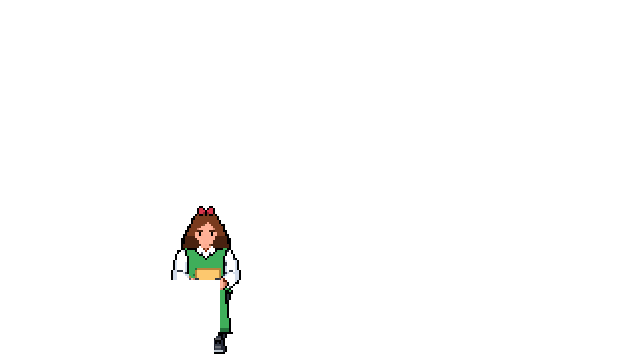
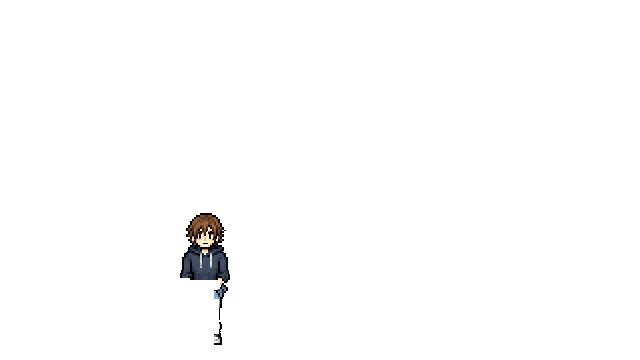
ajout de luna et hugo

Changed region(s): [[0.25, 0.55, 0.375, 0.9778]]

diff --git a/index.html b/index.html
@@ -112,9 +112,9 @@
         <img class="wagon__calque" src="assets/images/wagon-03/interieur.png" alt="Vieux wagon de bois envahi par le lierre et la mousse : lanternes de papier, banquettes de velours bordeaux, pots de fleurs aux fenêtres, chat roux endormi">
         <img class="wagon__calque wagon__lueur" src="assets/images/wagon-03/lueurs.png" alt="">
         <!-- Voyageurs provisoires (variantes de Joaquim), pensées provisoires. -->
-        <img class="wagon__calque wagon__personnage" src="assets/images/wagon-03/personnage-01.png" alt="Petite fille aux longs cheveux bruns, ruban rouge et robe verte, assise sur la banquette (personnage provisoire)" data-nom="Alice" data-pensee="Mon walkman n'a plus de piles et il reste quatre heures de trajet.">
+        <img class="wagon__calque wagon__personnage" src="assets/images/wagon-03/personnage-01.png" alt="Hugo" data-nom="Hugo" data-pensee="Skibidi Fortnite :P">
         <img class="wagon__calque wagon__personnage" src="assets/images/wagon-03/personnage-02.png" alt="Promeneur barbu en gilet vert, une feuille posée sur la tête (personnage provisoire)" data-nom="Léon" data-pensee="On est à Vierzon. Depuis vingt minutes. On est toujours à Vierzon.">
-        <img class="wagon__calque wagon__personnage" src="assets/images/wagon-03/personnage-03.png" alt="Grand-mère à chignon gris et lunettes, robe prune (personnage provisoire)" data-nom="Nana" data-pensee="Le sandwich : 25 francs. Le jambon dedans : introuvable.">
+        <img class="wagon__calque wagon__personnage" src="assets/images/wagon-03/personnage-03.png" alt="Luna" data-nom="Luna" data-pensee="Skibidi Labubu">
         <img class="wagon__calque wagon__personnage" src="assets/images/wagon-03/personnage-04.png" alt="Garçon au chapeau de paille et foulard rouge, au premier plan (personnage provisoire)" data-nom="Tom" data-pensee="Si je fais semblant de dormir, personne ne me demandera ma place côté fenêtre.">
         <!-- Blanco (sprite dessiné à la main), à genoux à l'envers sur le siège de devant à droite, tourné vers le spectateur.
              Le dossier de son siège cache le bas de son corps. -->
